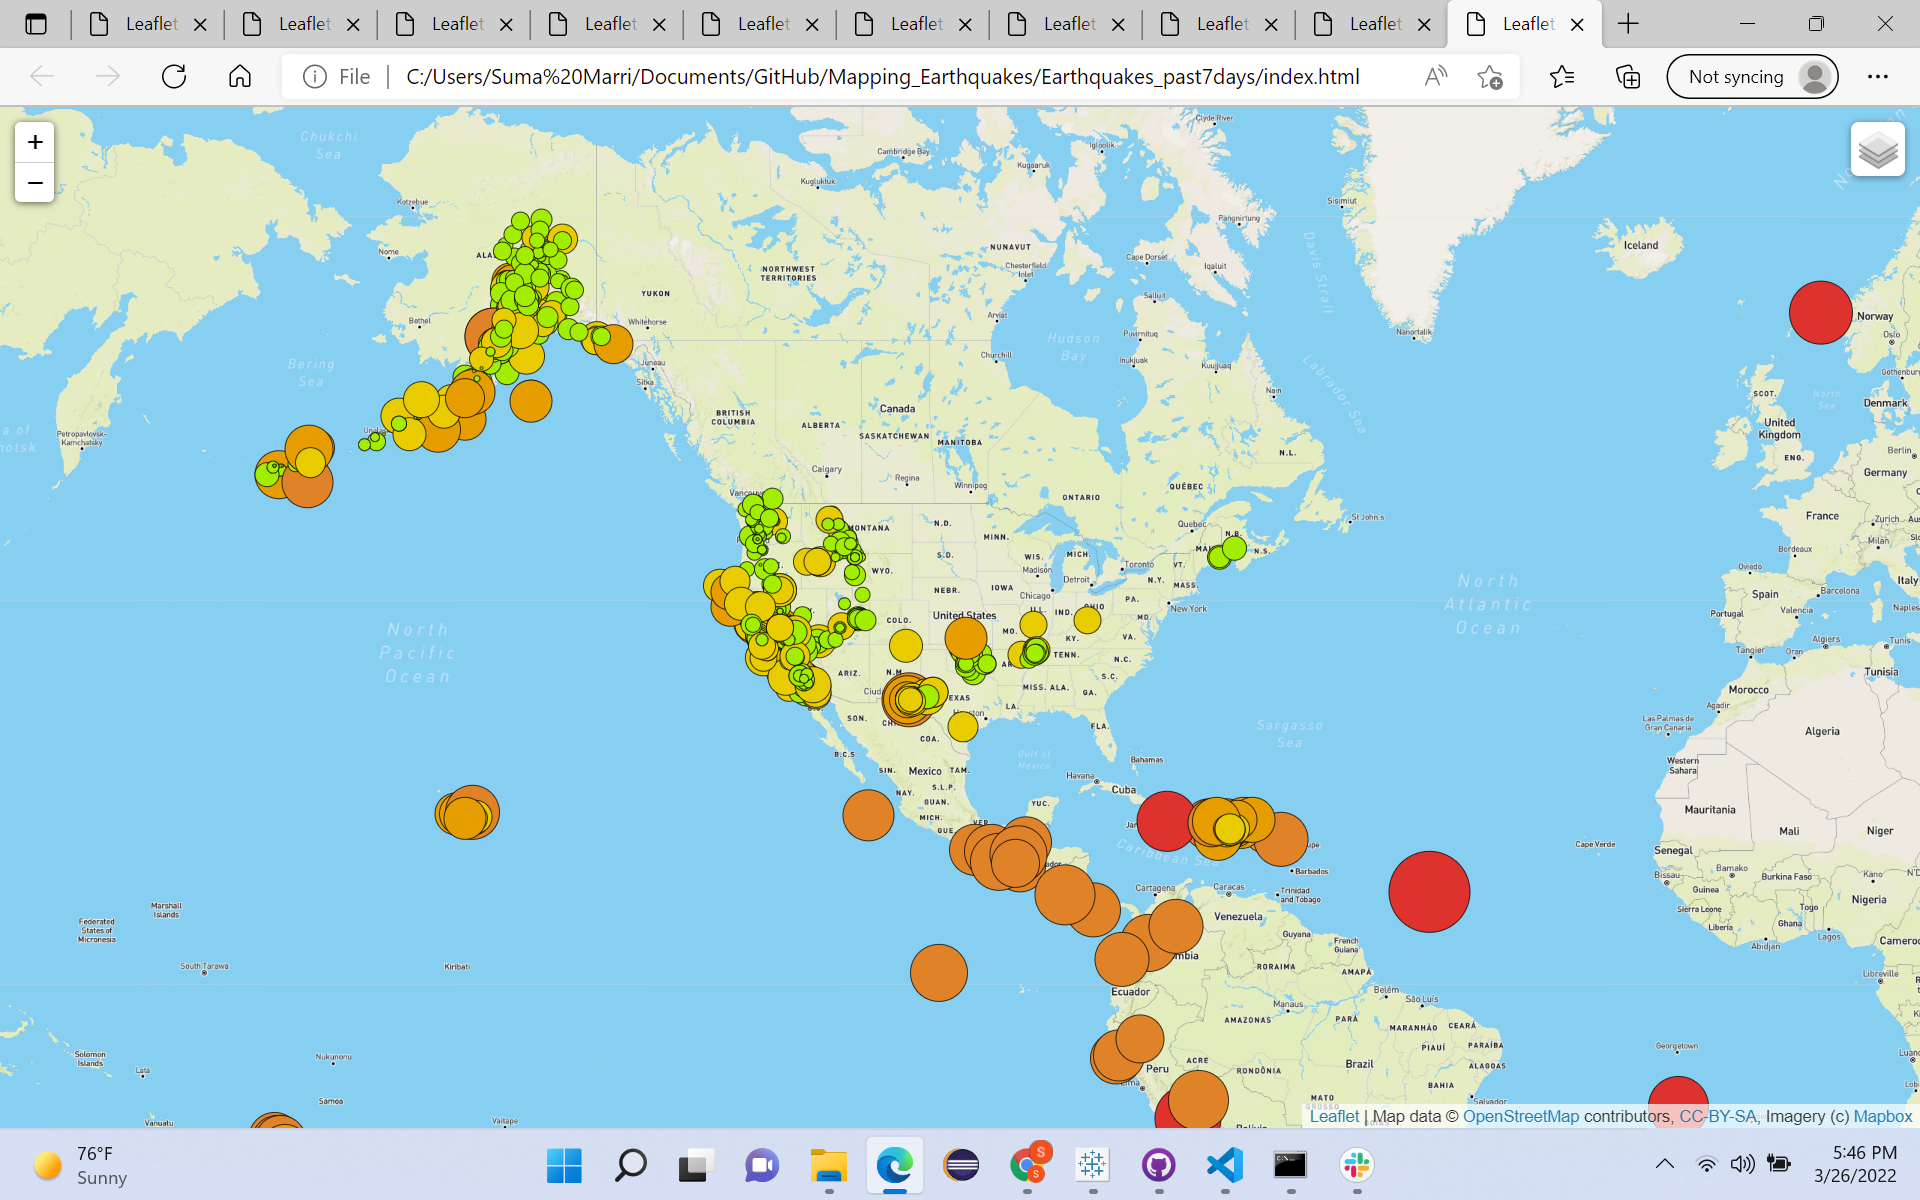
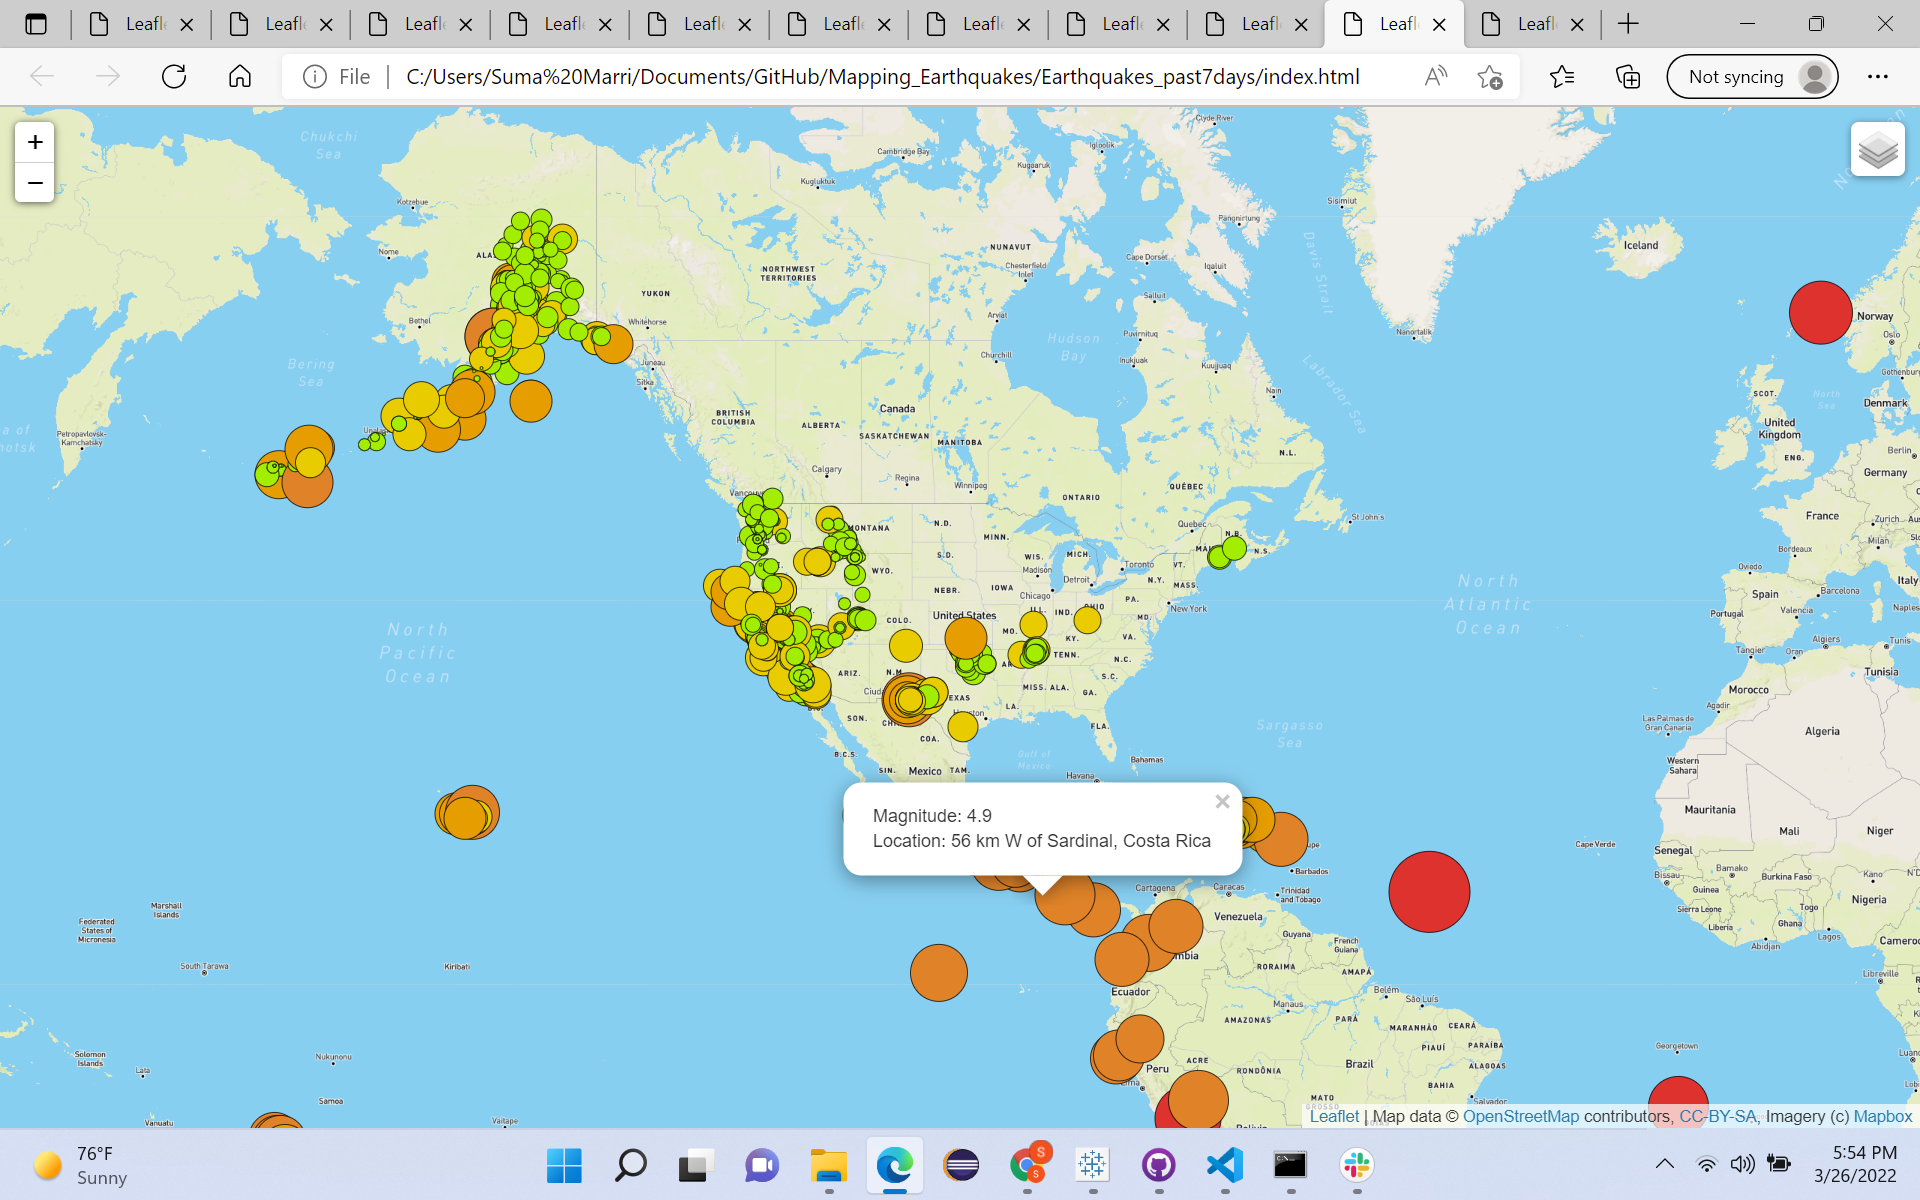
Adding Step 4

Changed region(s): [[0.0938, 0.0, 0.8438, 0.0617], [0.4375, 0.6475, 0.6562, 0.7708]]

diff --git a/Earthquakes_past7days/static/js/logicStep4.js b/Earthquakes_past7days/static/js/logicStep4.js
@@ -1,0 +1,96 @@
+// Add console.log to check to see if our code is working.
+console.log("working");
+
+// We create the tile layer that will be the background of our map.
+let streets = L.tileLayer('https://api.mapbox.com/styles/v1/mapbox/streets-v11/tiles/{z}/{x}/{y}?access_token={accessToken}', {
+    attribution: 'Map data © <a href="https://www.openstreetmap.org/">OpenStreetMap</a> contributors, <a href="https://creativecommons.org/licenses/by-sa/2.0/">CC-BY-SA</a>, Imagery (c) <a href="https://www.mapbox.com/">Mapbox</a>',
+    maxZoom: 18,
+    accessToken: API_KEY
+});
+
+// We create the satellite-street view tile layer that will be an option for our map.
+let satelliteStreets = L.tileLayer('https://api.mapbox.com/styles/v1/mapbox/satellite-streets-v11/tiles/{z}/{x}/{y}?access_token={accessToken}', {
+    attribution: 'Map data © <a href="https://www.openstreetmap.org/">OpenStreetMap</a> contributors, <a href="https://creativecommons.org/licenses/by-sa/2.0/">CC-BY-SA</a>, Imagery (c) <a href="https://www.mapbox.com/">Mapbox</a>',
+    maxZoom: 18,
+    accessToken: API_KEY
+});
+
+let baseMaps = {
+    Streets: streets,
+    Satellite: satelliteStreets
+};
+
+// Create the earthquake layer for our map
+let earthquakes = new L.layerGroup();
+
+// We define an object that contains the overlays.
+// This overlay will be visible all the time.
+let overlays = {
+    Earthquakes: earthquakes
+};
+
+// Create the map object with center, zoom level and default layer.
+let map = L.map('mapid', {
+    center: [39.5, -98.5],
+    zoom: 3,
+    layers: [streets]
+});
+
+// Pass our map layers into our layers control and add the layers control to the map.
+L.control.layers(baseMaps, overlays).addTo(map);
+
+// Retrieve the earthquake GeoJSON data.
+let earthquakesPast7Days = "https://earthquake.usgs.gov/earthquakes/feed/v1.0/summary/all_week.geojson";
+
+// Grabbing our GeoJSON data.
+d3.json(earthquakesPast7Days).then(function(data) {
+    console.log(data);
+
+    // This function returns the style data for each of the earthquakes we plot on
+    // the map. We pass the magnitude of the earthquake into a function
+    // to calculate the radius.
+    function styleInfo(feature) {
+        return {
+            opacity: 1,
+            fillOpacity: 1,
+            fillColor: getColor(feature.properties.mag),
+            color: "#000000",
+            radius: getRadius(feature.properties.mag),
+            stroke: true,
+            weight: 0.5
+        };
+    }
+    // This function determines the color of the circle based on the magnitude of the earthquake.
+    function getColor(magnitude) {
+        if (magnitude > 5) { return "#ea2c2c"; }
+        if (magnitude > 4) { return "#ea822c"; }
+        if (magnitude > 3) { return "#ee9c00"; }
+        if (magnitude > 2) { return "#eecc00"; }
+        if (magnitude > 2) { return "#d4ee00"; }
+        return "#98ee00";
+    }
+    // This function determines the radius of the earthquake marker based on its magnitude.
+    // Earthquakes with a magnitude of 0 will be plotted with a radius of 1.
+    function getRadius(magnitude) {
+        if (magnitude === 0) {
+            return 1;
+        }
+        return magnitude * 4;
+    }
+
+    // Creating a GeoJSON layer with the retrieved data.
+    L.geoJson(data, {
+        // We turn each feature into a circleMarker on the map.
+        pointToLayer: function(feature, latlng) {
+            console.log(data);
+            return L.circleMarker(latlng);
+        },
+        style: styleInfo,
+        onEachFeature: function(feature, layer) {
+            layer.bindPopup("Magnitude: " + layer.feature.properties.mag + "<br>Location: " + layer.feature.properties.place);
+        }
+    }).addTo(earthquakes);
+
+    // Then we add the earthquake layer to our map.
+    earthquakes.addTo(map);
+});

diff --git a/Earthquakes_past7days/index.html b/Earthquakes_past7days/index.html
@@ -22,7 +22,7 @@
     <!-- API key -->
     <script type="text/javascript" src="static/js/config.js"></script>
     <!-- Our JavaScript -->
-    <script type="text/javascript" src="static/js/logicStep3.js"></script>
+    <script type="text/javascript" src="static/js/logicStep4.js"></script>
 </body>
 
 </html>
